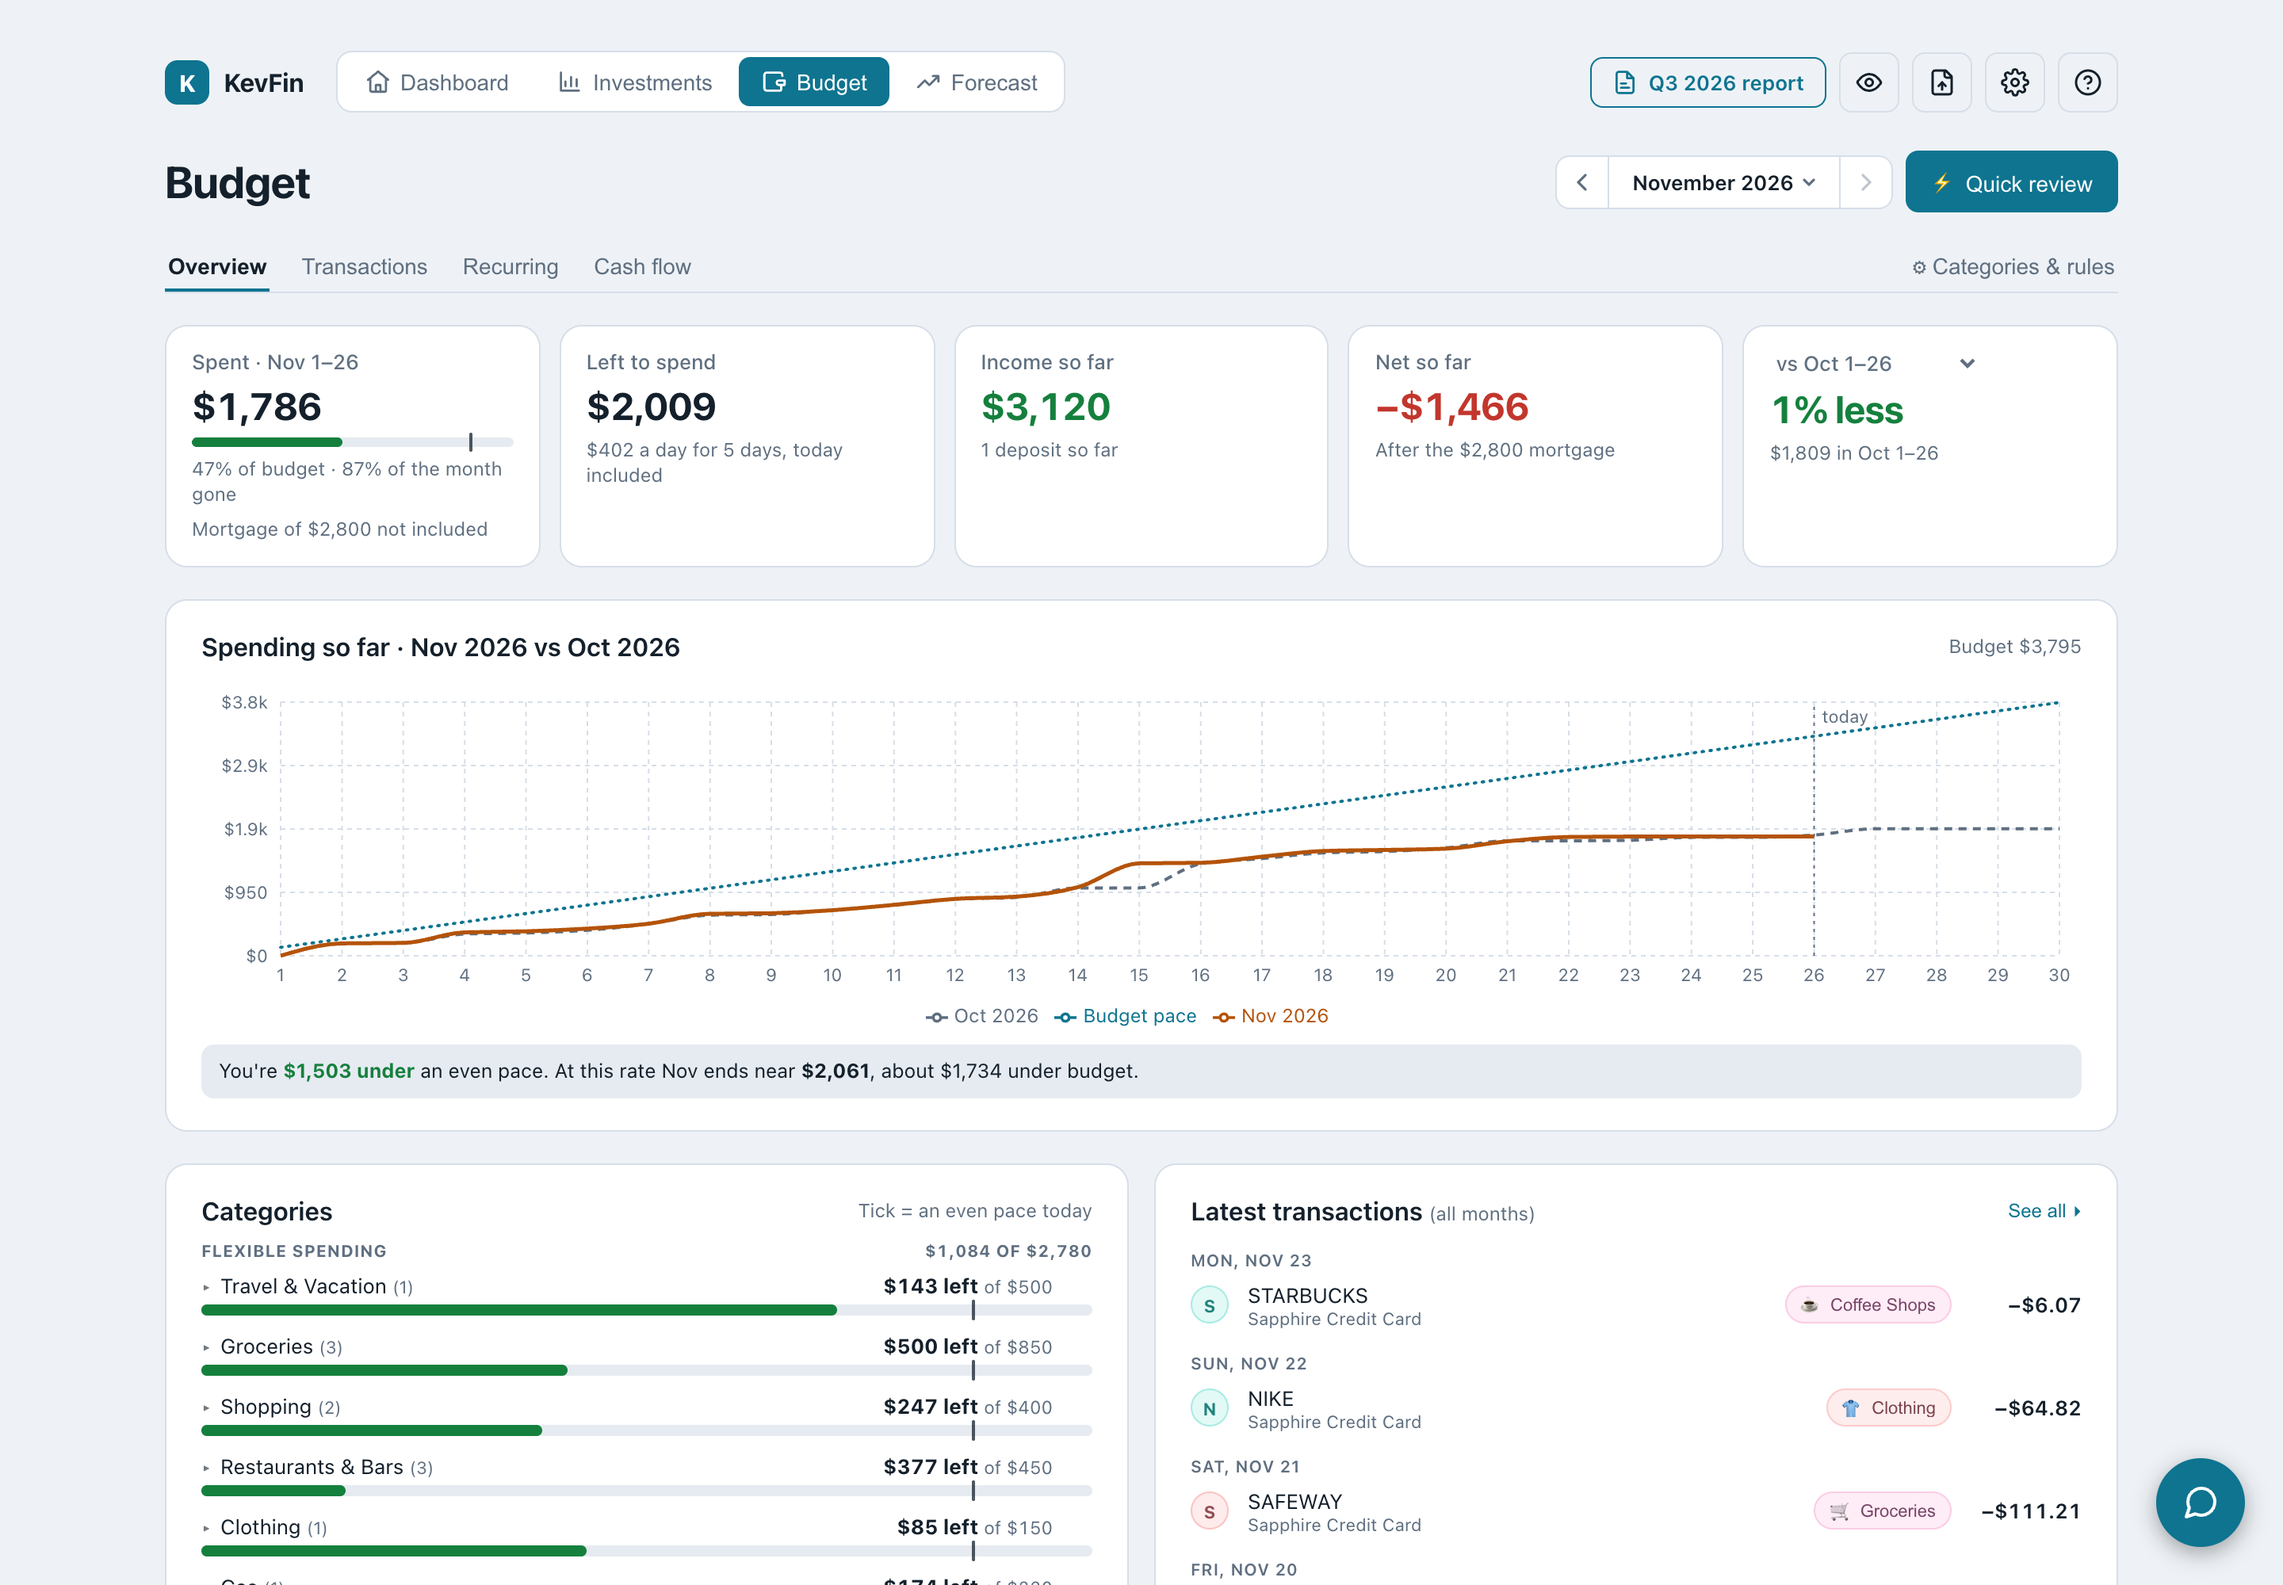
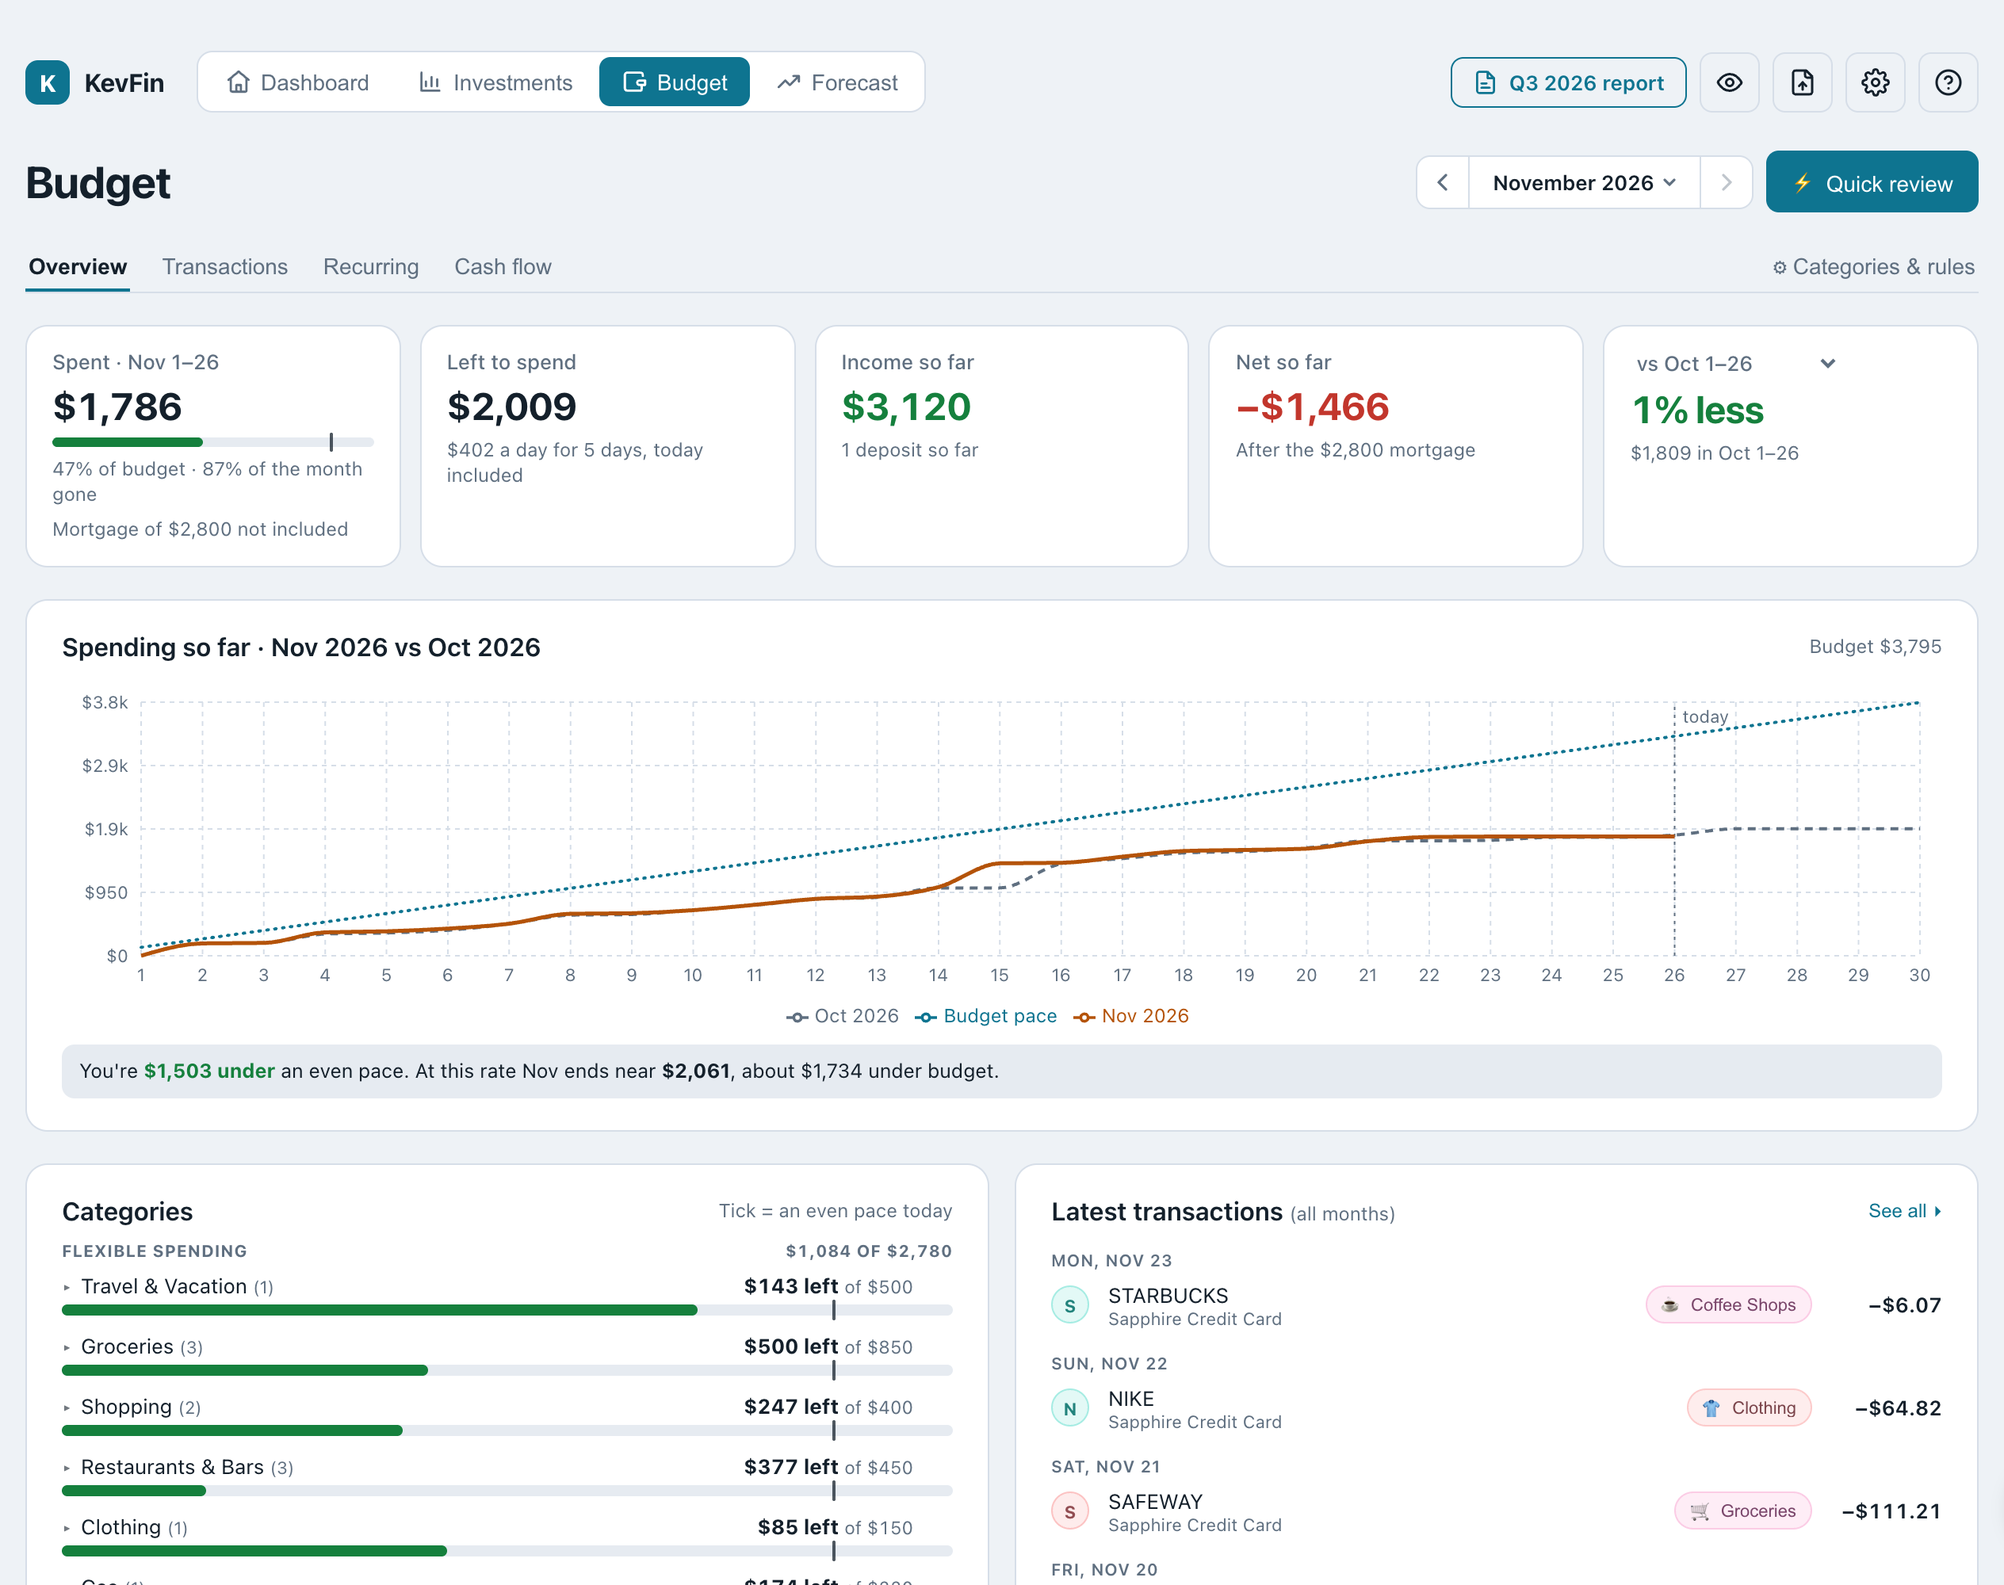
docs: README for the one-screen welcome guide; truer privacy wording
Retakes welcome.png as a tight crop of the new one-screen guide (Mist, fold
closed). The README now introduces the guide as it is (three steps, Connect an
account), says up top that nothing is uploaded unless you use the optional
assistant, gives the no-connector route (CSV import plus Manual assets), says a
home's value needs a property-value key or the pencil and that loan terms come
from the home's menu, and makes the backup section stand alone. The privacy
answer matches the guide and the assistant's What is shared? list. Investments,
Budget and Forecast pictures are trimmed of empty side margins. Help docs
regenerated.

diff --git a/README.md b/README.md
@@ -5,8 +5,8 @@
 KevFin is a free app that puts your bank accounts, investments, credit cards and
 home value on one screen. It shows your net worth over time, what's really inside
 your investments, where your money goes each month, and whether you're on track to
-retire. It runs on your own computer,
-so your financial data is never uploaded anywhere.
+retire. It runs on your own computer and keeps your data there: nothing is
+uploaded unless you turn on and use the optional AI assistant.
 
 ![The KevFin dashboard](docs/screenshots/dashboard.png)
 
@@ -58,10 +58,13 @@ You only need to do step 4 once.
 
 ### 3. Open KevFin
 
-A welcome guide walks you through the basics the first time you open it. You can
-bring it back any time from the **⚙ gear** in the top-right corner.
+The first time you open it, a one-screen welcome guide shows the three steps to
+get going: connect your accounts, add your home, then look around. **Connect an
+account** takes you straight to the place to do it. You can bring the guide back
+any time from the **⚙ gear** in the top-right corner (**Welcome guide** at the
+bottom).
 
-<img src="docs/screenshots/welcome.png" alt="The welcome guide" width="720">
+<img src="docs/screenshots/welcome.png" alt="The welcome guide" width="520">
 
 ---
 
@@ -78,6 +81,10 @@ your bank. You only need **one** of these:
 
 You sign up with the connector yourself, so the connection belongs to you, not to
 KevFin.
+
+**Don't want a connector?** Click the **⚙ gear** and choose **Import transactions
+from a CSV** for your spending (most banks let you download one), and type your
+balances in under **Manual assets** on the Dashboard.
 
 ### Option A: SimpleFIN
 
@@ -107,8 +114,12 @@ Your accounts appear in a few seconds.
 ### Add your home (optional)
 
 In the **Real estate** box on the Dashboard, click **+ Property**, type your
-address and click **+ Add Property**. KevFin looks up its value. Click the **✎**
-next to **Mortgage** to enter your loan, and it works out your equity.
+address and click **+ Add Property**. Then open the home's **⋯** menu and choose
+**Add loan terms** to enter your mortgage, and KevFin works out your equity.
+
+KevFin fills in the home's value by itself once you add a property-value key
+(**Add a key →** under the address box). Without one, type the value in with the
+**✎** pencil.
 
 ### Add anything else (optional)
 
@@ -235,10 +246,12 @@ KevFin up: connecting accounts, phone access, backups and updates.
 
 ## Keep a backup
 
-Click the **⚙ gear** (top-right) and choose **Download backup**. Save the file
-somewhere safe. If you ever get a new computer, install KevFin there and choose
-**Restore from backup**. The same menu can also save your transactions as a
-spreadsheet.
+Your data lives only on your computer, so keep a copy somewhere else. Click the
+**⚙ gear** (top-right) and choose **Download backup**: one file with all your data
+and settings. Save it somewhere safe, such as a USB stick or your cloud drive. If
+you ever get a new computer, install KevFin there, click the **⚙ gear** and choose
+**Restore from backup**. The same menu can also save your transactions, holdings
+or net-worth history as a spreadsheet.
 
 <img src="docs/screenshots/setup.png" alt="The Setup menu" width="480">
 
@@ -253,21 +266,23 @@ it over the old one. Your data stays where it is.
 ## Questions
 
 **Is my financial data private?**
-Yes. Everything is stored on your computer. KevFin only goes online to fetch
-your balances from the connector you chose, look up your home's value (it sends
-the address), get prices, fees and fund holdings (it sends ticker symbols), and
-show the logos of well-known shops in your transactions (it asks a free icon
-service for, say, starbucks.com's logo).
+Yes. Everything is stored only on your own computer. Apart from fetching your
+balances from the connector you chose, KevFin's look-ups send a ticker symbol, a
+fund's security code, a shop's web address (to show its logo) or your home's
+address (to look up its value), never your balances. If you give an SEC contact
+email in Setup, it goes only to the SEC (sec.gov), which asks for one before
+sharing fund holdings.
 
-The optional AI assistant is the one exception, and only when you use it. Asking
+The optional AI assistant is the one feature that sends your figures out, to
+Anthropic, and only when you use it. Asking
 it a question sends your question, a summary of your finances and any
 transactions it looks up to Anthropic, through your own Claude account. It never
 sends bank logins, tokens or keys, and your street address, email addresses,
 phone numbers and long account numbers are masked first. Importing a document
 sends that document, and the quarterly report sends summary figures. If you never
 turn the assistant on, none of this happens. The chat has a **What is shared?**
-link with the full list, and the **⚙ gear** menu has an **AI assistant** switch
-that turns all of it off.
+link with the full list, and the **⚙ gear** menu has an **AI assistant** switch:
+while it is off, nothing is sent to Claude.
 
 **Does it cost anything?**
 KevFin is free. SimpleFIN charges a small yearly fee; Plaid is free for personal
